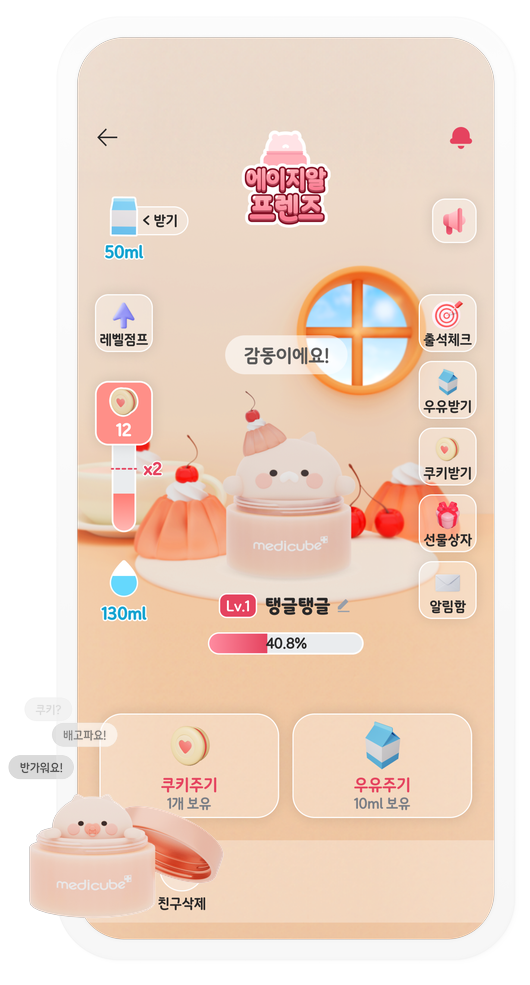
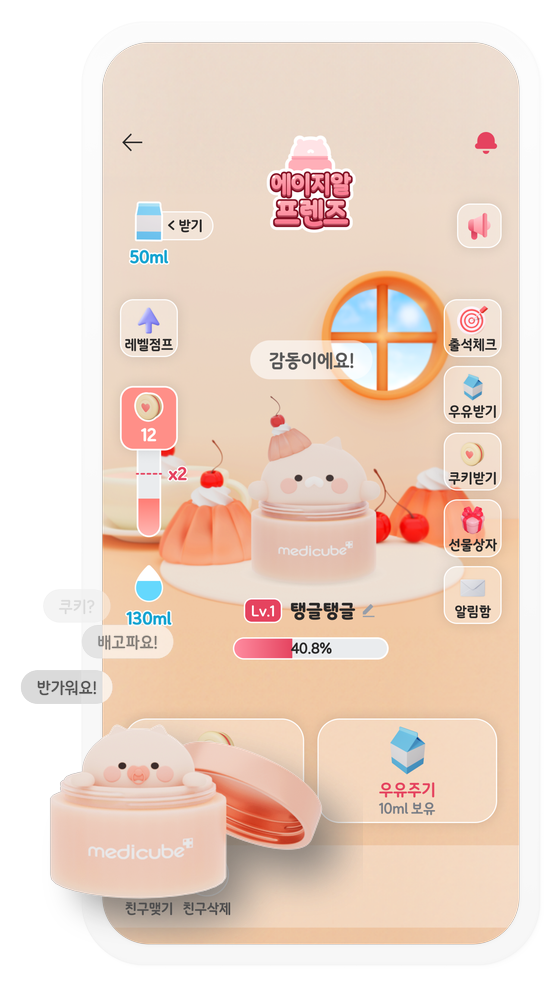
에이지알 프렌즈 히어로 캐릭터 크게 키우고 그림자 추가, 컨테이너 확대
캐릭터 크기를 300px->420px로 확대하고 자연스러운 드롭섀도우 추가.
히어로 이미지 컨테이너 max-width도 340px->440px로 넓혀 더 존재감 있게 노출.

Claude-Session: https://claude.ai/code/session_0122gnyiLWGq3M4HFo7HuRu6

diff --git a/projects/age-r-friends.html b/projects/age-r-friends.html
@@ -71,7 +71,7 @@
       <div class="stat"><div class="num accent">매출 증가</div><div class="label">무료쿠폰 사용 시 추가 구매 동반</div></div>
     </div>
 
-    <div class="visual" style="max-width:340px; margin:0 auto;">
+    <div class="visual" style="max-width:440px; margin:0 auto;">
       <img src="../assets/images/appendix/age-r-friends/hero-app.png" alt="에이지알 프렌즈 앱 화면" style="width:100%; display:block;" loading="lazy" />
     </div>
   </div>
